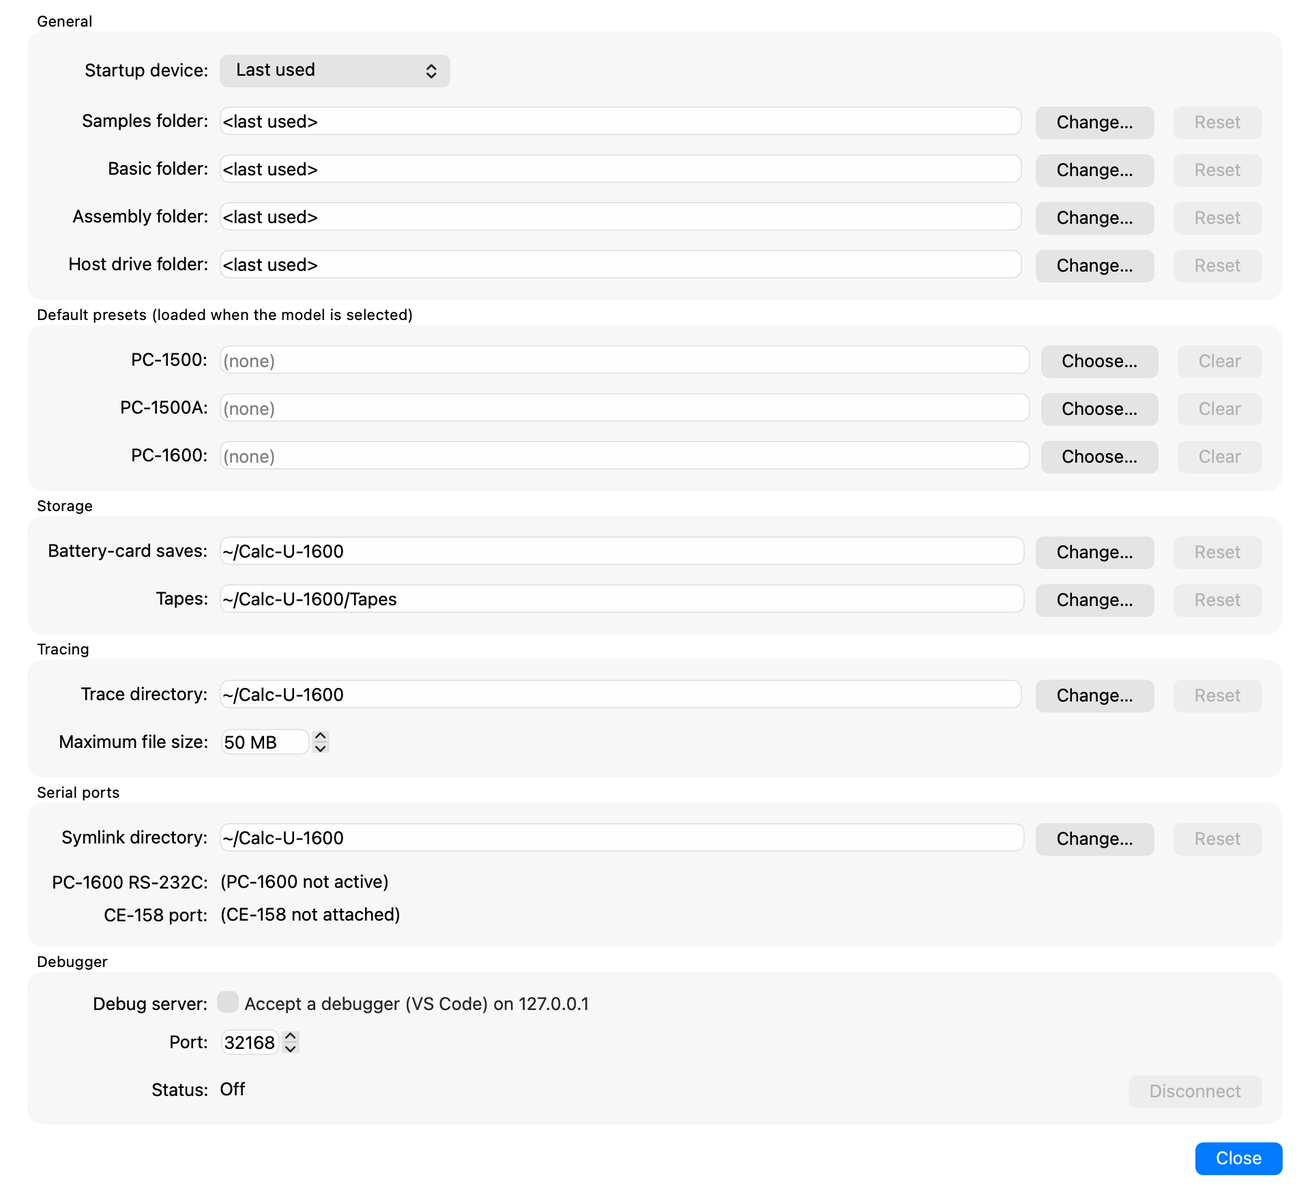
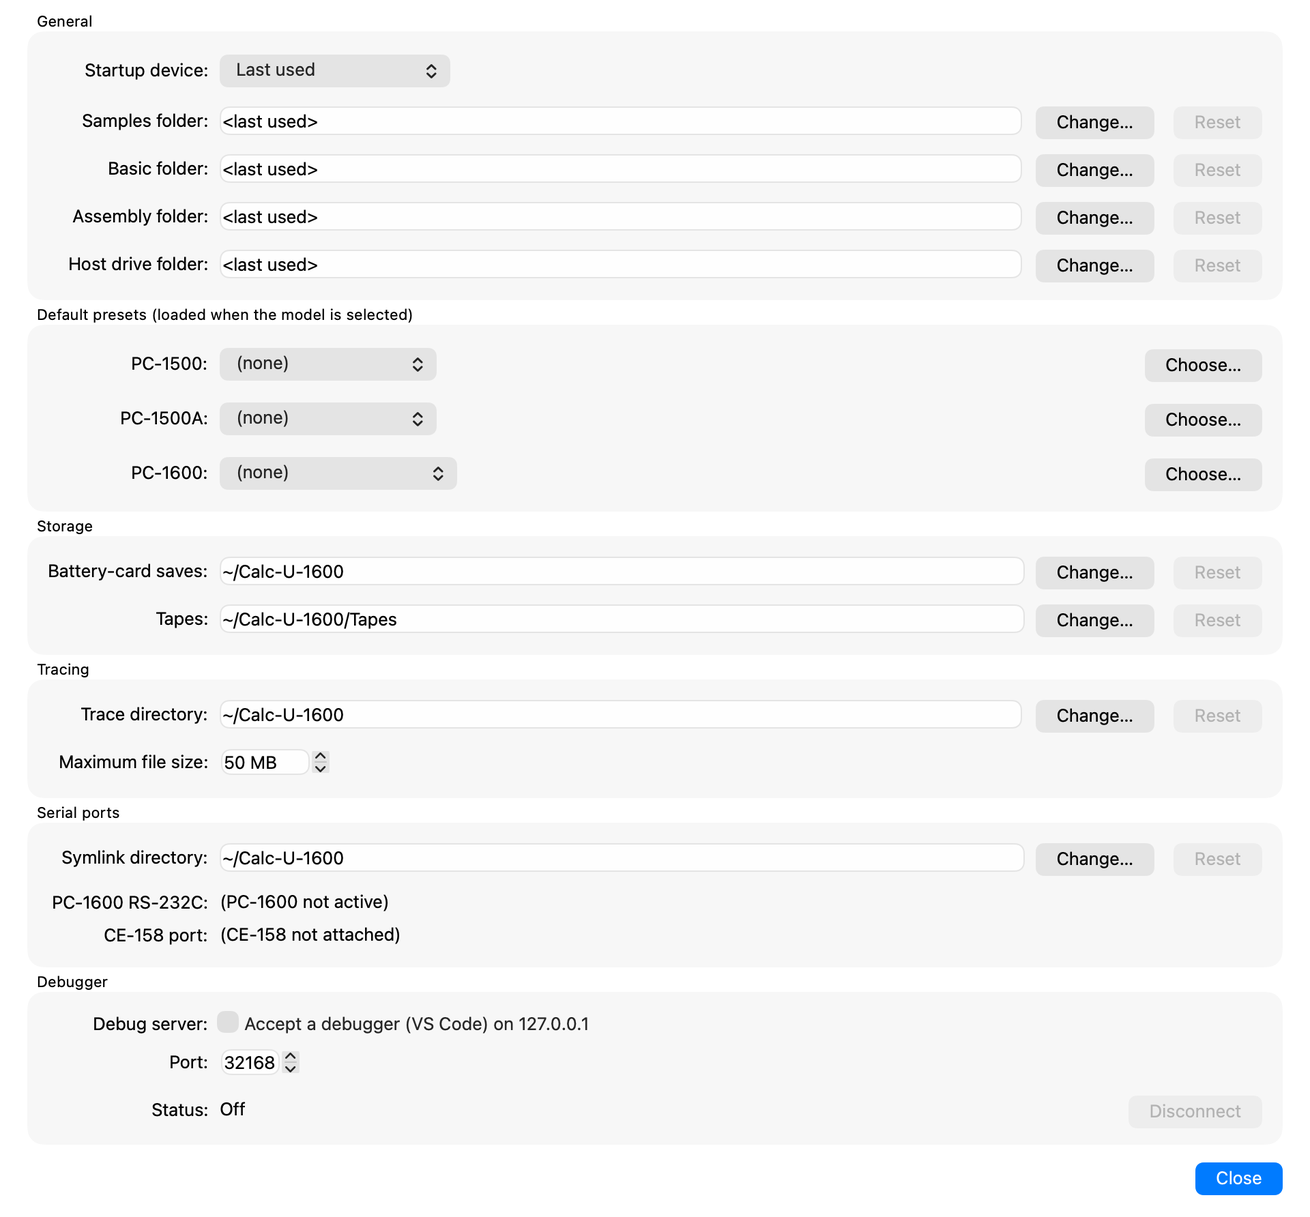
Docs: preset-name/description, card/disk description, bundled.yaml
- User Guide: preset-name/description (8.2, reference table), File >
  Examples, Settings > Default presets by name, Name & Save keeps the
  description; 09-settings screenshot regenerated.
- Card and floppy format docs: the description key.
- examples/README, Web-Client, Shared-Architecture: bundled.yaml and
  PresetCatalog instead of Web/presets.json.
- Decisions.md: names and descriptions; the plan as
  docs/background/plans/Media-Names-Plan.md; CHANGELOG.

diff --git a/docs/background/plans/Media-Names-Plan.md b/docs/background/plans/Media-Names-Plan.md
@@ -1,0 +1,172 @@
+# Names and descriptions for presets, cards and disks
+
+> **Status (2026-11-07): implemented** (4e2c58a … this commit). Differences from this plan:
+> - **Core:** `preset-name:` / `description:` values go through the parser's usual quote and comment handling (`splitKeyValue`), so no special quote rule was needed for Decisions.md. The headless `saveas: floppy:` (Core/Preset/PresetMedia.hpp) writes no description: it has only the image, not the disk's source file.
+> - **Shared:** `FloppyBay::DiskLists` stays a list of names; `FloppyBay::diskDescription(name)` gives the tooltip. Card instances keep the description for free (a save is spliced into the source file). `HostDirs` got a third field, `bundledExamples` (default `<bundle>/examples`; the web's is `/presets`).
+> - **Web:** the menu is still **File ▸ Load Preset ▸** (examples, then Upload Preset…), not "Examples"; the engine gives `presetExamples()` and `settingsState().presetChoices`. `?preset=` still takes a path under `presets/`.
+> - **Settings (both):** the Qt row lost its Clear button; "(none)" / "None" is the first item of the list.
+
+## Context
+
+Web ▸ Settings ▸ Default presets shows labels like "Towers of Hanoi (PC-1600)". They
+come from `Web/presets.json`, a hand-kept list used only by the web build
+(`Web/build.js` copies it to `presets/manifest.json`; `CalcU1600.jsx:217` builds
+File ▸ Examples from it, `Dialogs.jsx:178` the Settings selects). The preset files
+have no name at all. Qt6 has none of this: its default preset is a raw path field
+(`SettingsDialog.cpp:166`) and Load Preset is a file dialog. The closed web select
+crops the long label ("Towers of Hanoi (PC-16…").
+
+Goal: the label belongs in the file itself, as a **short name** (shown once
+something is selected; unique and uncropped) plus a **long description** (shown in
+lists, menus and tooltips). This works the same in both frontends, and cards and
+disks get the same description field.
+
+Decisions (from the user):
+- Preset keys `preset-name:` (short) + `description:` (long), matching
+  `module-name:` / `disk-name:`.
+- Both are optional; when missing, the file name stands in. A test makes them
+  required for every preset in `examples/`.
+- Cards and disks get an optional one-line `description:`, shown as a tooltip.
+  Name & Save copies it from the template to the new instance.
+- Qt bundles the same curated example list as the web: File ▸ Examples, and a pick
+  list in Settings ▸ Default presets.
+
+## Design
+
+### 1. Core — the format
+- `Core/Preset/PresetFile.{hpp,cpp}`: add `preset-name` and `description` to
+  `kKeys`, as inline values only. The value is the rest of the line, with one
+  optional pair of surrounding `"` stripped. That matches the card/disk files and
+  differs on purpose from `type:` (record this in Decisions.md). New fields:
+  `PresetFile::presetName`, `PresetFile::description`.
+- Add a cheap header read, `bool readPresetHeader(path, PresetHeader*, error)`,
+  returning `{model, presetName, description}`. It scans only the top-level
+  `format-version` / `model` / `preset-name` / `description` lines and does not
+  resolve files or steps, so listing presets doesn't parse everything. It reuses
+  the same `readLines` and `splitKeyValue`. The fallback name is the file stem
+  (`hanoi`); the fallback description is empty. This fallback lives in one helper
+  so both frontends get it.
+- Cards: `Core/Connector/MemoryCardDefinition.hpp:1359`: add `description` to the
+  allowed keys → `MemoryCardDefinition::description`; carry it into
+  `MemoryCardCatalogEntry` (`MemoryCardCatalog.hpp:26`). The existing `notes:`
+  (free-form, multi-line) stays as it is.
+- Disks: `Core/Connector/FloppyImageFile.hpp:76`: add `description` to
+  `requireOnlyKeys` → `FloppyFile::description`; the writer (line ~109) emits it
+  when it isn't empty.
+- Format versions stay at 1: the new keys are optional, and pre-1.0 is fine with
+  that.
+
+### 2. Shared — one catalogue for both frontends
+- **The curated lists move to `examples/bundled.yaml`** (replaces
+  `Web/presets.json`). It holds two separate lists:
+  ```yaml
+  defaults:            # Settings ▸ Default presets pick list (per model)
+    - file: startup/default-pc1500.pc1500
+    - file: startup/default-pc1500a.pc1500a
+    - file: startup/default-pc1600.pc1600
+  examples:            # File ▸ Examples (presets to load at runtime)
+    - group: BASIC
+      file: basic/hanoi.pc1600
+    - group: Plotter
+      file: plotter/ce150_demo.pc1500a
+    …
+  ```
+  A preset in `defaults` is not offered under File ▸ Examples (the web menu's
+  "Startup" group goes away). The Settings list offers only `defaults` entries.
+  Model, name and description come from each file itself, so they can't drift out
+  of sync. Shared reads the file with `Core/Yaml.hpp`; `build.js` and CMake only
+  need the `file:` lines from both lists.
+- New `Shared/PresetCatalog.{hpp,cpp}`: `defaults(model)` and `examples()` →
+  `{group, ref, model, name, description}`, read from
+  `<bundledResourcesDir>/examples/bundled.yaml` plus each file's
+  `readPresetHeader`; and `PresetHeader describe(path)` for any file (the user's own
+  default preset, uploads). It refuses a file that is in both lists or whose
+  `model:` doesn't parse; the test checks this too.
+- **Stable reference for bundled presets in Settings:** `examples:basic/hanoi.pc1600`.
+  Shared resolves it against the bundled examples folder (`AppPaths`), so it
+  survives app moves and updates in Qt. The web uses the same form instead of
+  `/presets/...`; old web values simply no longer resolve (pre-1.0).
+  `AppSession::loadDefaultPresetJob` / `loadPresetJob` accept the form.
+- `ModuleBay::ModuleEntry` (`Shared/ModuleBay.hpp:46`) and the `FloppyBay` lists
+  gain `description` (FloppyBay's `templates`/`instances` become entries rather than
+  bare strings). `MediaLibrary::MediaItem` gains it too (Saved Media dialog).
+- Name & Save (the `MediaSave.hpp` pipeline / `CardYamlDump`): copy the source's
+  `description` into the saved card or disk.
+- Validation helper `presetNameProblems(entries)`: names unique per model,
+  ≤ 18 characters, no model suffix needed (the Settings lists are already per
+  model). Used by the test.
+
+### 3. Qt6
+- CMake (`Qt6/CMakeLists.txt` ~175, next to the cards/ROMs copy): copy
+  `examples/bundled.yaml` and the folders of the listed files into
+  `Resources/examples` (loose, like the cards). The folder list comes from
+  `file(STRINGS … REGEX "file:")`.
+- `MainWindow.cpp:839` File menu: **Examples ▸** submenu from
+  `PresetCatalog::examples()` (no default presets), grouped like the web's. Item
+  text = description, falling back to the name. It runs the existing load-preset
+  path.
+- `SettingsDialog.cpp` default-preset rows: a combo instead of the path field.
+  Entries: "None", `PresetCatalog::defaults(model)`, and the current custom file
+  if one is set. Each list item shows the **description**, the closed combo shows
+  the **short name** (a small `NamedComboBox`: paint the current item's
+  `Qt::UserRole+1` short name; tooltip = description + path). "Choose…" still picks
+  any file, and that file's name/description come from `PresetCatalog::describe`.
+- Control-bar module and floppy pickers (`ControlBar.cpp:31 fillPicker`, 148):
+  `setItemData(i, description, Qt::ToolTipRole)`, and the combo's own tooltip
+  follows the current item.
+
+### 4. Web
+- `Web/build.js`: read `examples/bundled.yaml` (simple `file:` line scan), copy the
+  folders as now, and drop `manifest.json`. `Web/presets.json` is removed.
+- `bindings.cpp`: `presetCatalog()` → the Shared list. The engine already has the
+  files at `/presets`, and that becomes the bundled examples folder for
+  `AppPaths`. Module/floppy lists pass `description` through.
+- `CalcU1600.jsx:217` Examples menu: `examples()` from the engine (no Startup
+  group), labelled with the description. The Settings combos use `defaults(model)`.
+- `Dialogs.jsx:178` Settings: replace the native `<select>` with a small
+  `NamedCombo` built on `MenuList` (`MenuBar.jsx:11`). The button shows the short
+  name, the open list shows descriptions. A native select can't show different
+  text open and closed.
+- `ControlBar.jsx:35` module/disk selects: `title` = description on each option and
+  on the select itself.
+
+### 5. Content and docs
+- Add `preset-name:` and `description:` to every preset in both lists of `bundled.yaml`,
+  plus the other `examples/` presets. Short names like "Hanoi", "Lissajous CE-150",
+  "Lissajous CE-1600P"; descriptions take over today's titles.
+- Add `description:` to the bundled cards (`Qt6/resources/cards/*.card.yaml`) and
+  disks ("Formatted", "Blank"), from their header comments.
+- Docs: the User-Guide preset key table and the card/disk format sections;
+  `docs/developer/Web-Client.md` (presets.json → bundled.yaml);
+  `docs/background/Decisions.md` (the quote rule for these two keys; `examples:`
+  refs); `examples/README.md` mentions bundled.yaml. Commit the finished plan as
+  `docs/background/plans/Media-Names-Plan.md` (+ a row in the plans README).
+
+## Phases (each one committed to dev-0.8.0)
+1. Core keys + `readPresetHeader` + card/disk `description`, with tests.
+2. Shared `PresetCatalog`, `examples:` refs, descriptions in bays/MediaLibrary,
+   Name & Save copy; `bundled.yaml` + example content + the examples test.
+3. Qt6: bundling, Examples menu, Settings `NamedComboBox`, picker tooltips.
+4. Web: build.js, bindings, Examples menu, `NamedCombo`, option titles; Playwright
+   update (`Web/tests/offline.spec.js:61` clicks the Hanoi example by text).
+5. Docs + Decisions + plan doc.
+
+## Verification
+- `tools/run_tests.sh`. New tests:
+  - Core: preset-name/description parsing, the quoted form, the fallback, an
+    unknown-key error unchanged.
+  - Core: a card/disk round trip with `description`.
+  - Shared: `PresetCatalog` over `examples/bundled.yaml`. Every listed file
+    exists, parses, has both keys, and passes `presetNameProblems` (per list).
+    No file is in both lists.
+  - Shared: an `examples:` ref resolves and loads as the default preset.
+  - Shared: Name & Save keeps the description.
+- `tools/build_wasm_check.sh`; Qt app builds.
+- Qt, by hand (`-ApplePersistenceIgnoreState YES`, quit via calcu1600/quit):
+  - File ▸ Examples ▸ Hanoi loads; the startup presets are not in the menu.
+  - Settings: the PC-1600 list shows descriptions, the closed combo shows "Hanoi";
+    restart → it loads as the default.
+  - The module picker tooltip shows the CE-161 description.
+- Web: `Web/run-tests.sh` (Playwright).
+- Web, by hand in Chrome: the Settings combo shows the short name uncropped and the
+  descriptions when open; the Examples menu still works; reload keeps the default.

diff --git a/docs/User-Guide.md b/docs/User-Guide.md
@@ -445,7 +445,9 @@ copy:
 
 From then on that copy **saves itself**: about half a second after a
 change, the file is updated. It appears in the picker below the separator,
-so you can plug it in again later, and presets can use it by name.
+so you can plug it in again later, and presets can use it by name. It
+keeps the template's one-line description, which the picker shows as a
+tooltip.
 
 ```mermaid
 stateDiagram-v2
@@ -621,7 +623,8 @@ A preset is a small script that builds a machine from a cold boot: which
 model, modules and peripherals, then what to type and which programs to
 load. The file extension matches the model: `.pc1500`, `.pc1500a` or
 `.pc1600`. Open one with **File ▸ Load Preset…**. The
-[examples/](../examples/) folder is full of them.
+[examples/](../examples/) folder is full of them; the ones the app comes
+with are under **File ▸ Examples**, by their description.
 
 A preset always runs in the same order:
 
@@ -652,6 +655,18 @@ which version of the preset format the file is written in; a newer app
 refuses a version it doesn't know rather than guess. `key:` presses one
 key by name. `type:` types a line,
 followed by ENTER.
+
+A preset can name itself, for the lists it shows up in:
+
+```yaml
+preset-name: Hanoi                                 # short, shown once it is chosen
+description: Towers of Hanoi, up to seven bricks   # shown in lists and menus
+```
+
+Both are optional. Without `preset-name:`, the file name stands in
+(`hanoi` for `hanoi.pc1600`). Keep the name short (18 characters at
+most) and different from the other presets of the same model, so a chosen
+preset reads in full and can't be mistaken for another one.
 
 ### 8.3 Adding hardware
 
@@ -768,7 +783,9 @@ itself, and the preset that uses them:
 
 **Settings ▸ Default presets** sets one preset per model. This is how a model
 gets its usual setup, because a model switch starts with no modules and no
-peripherals:
+peripherals. Each model's list offers the startup presets the app comes
+with, by description; once one is chosen, the list shows its short name.
+**Choose…** takes any preset file of your own:
 
 ```mermaid
 flowchart LR
@@ -800,6 +817,8 @@ This is what it leaves on the LCD:
 |---|---|
 | `format-version:` | `1` (required) |
 | `model:` | `PC-1500[:A01\|A03\|A04]`, `PC-1500A`, `PC-1600[:new\|old]` (required) |
+| `preset-name:` | the short name a list shows once the preset is chosen; default: the file name |
+| `description:` | one line for lists, menus and tooltips |
 | `plotter:` | `CE-150`, `CE-1600P[:new\|old]` (PC-1600) |
 | `interface:` | `CE-158` |
 | `floppy:` | disk name, optionally `,A` / `,B` (PC-1600 with the CE-1600P) |

diff --git a/docs/background/Decisions.md b/docs/background/Decisions.md
@@ -413,6 +413,29 @@ authentic speed for the span that matters.
   with a missing file fails before the machine starts, like every other
   parse error.
 
+### Names and descriptions (docs/background/plans/Media-Names-Plan.md)
+- **The name lives in the file.** A preset's `preset-name:` / `description:`,
+  a card's or disk's `description:`: no list kept beside the files says
+  what they are. `examples/bundled.yaml` only says *which* presets the app
+  ships and in which group, so it can't drift from them.
+- **Optional in a file, required in the bundle.** A user's preset without
+  them still loads (the file name stands in); every preset `bundled.yaml`
+  lists must have both, short names at most 18 characters and unique per
+  model within a list (`presetNameProblems()`, checked by the tests).
+- **Two lists, not one.** `defaults` are offered only in Settings ▸ Default
+  presets, `examples` only in File ▸ Examples: a startup setup isn't
+  something to load from a menu, and a demo isn't a startup setup.
+- **Settings stores a bundled preset as `examples:<file>`**, resolved
+  against the bundled examples folder, not as a path: the app bundle moves
+  with every update (and the web client has no stable path at all).
+- **Long in the list, short once chosen.** The pickers show descriptions
+  while open and the short name when closed (Qt `NamedComboBox`, web
+  `NamedCombo`), so a choice is never cut off. A native `<select>` can't
+  do that, hence the web's own combo.
+- **Cards and disks keep their name as the label.** `module-name:` /
+  `disk-name:` are short and unique already; the `description:` is only a
+  tooltip. Name & Save and the autosave keep it.
+
 ### Loading programs (docs/background/plans/Loader-Mode-Plan.md)
 - **The loaders follow MODE and `TITLE` and never change them.** Load
   BASIC, Load Machine Code, presets and the debugger read BMODE b6 and F1D5H

diff --git a/docs/developer/Floppy-Image-Format.md b/docs/developer/Floppy-Image-Format.md
@@ -44,6 +44,7 @@ Keys may appear in any order. Unknown keys are an error at every level.
 | `format` | yes | `ce1600f-floppy` |
 | `format-version` | yes | integer; this document is version **1** |
 | `disk-name` | yes | non-empty string. Writers double-quote it; it therefore must not contain `"` or a newline |
+| `description` | no | one line about the disk, the picker's tooltip for it. Written double-quoted, or single-quoted when it holds a `"`. Name & Save and the autosave keep it |
 | `template` | no | `true` = read-only template (see §2); absent or `false` = instance. Written only by a preset's `saveas: template …`; Name & Save never writes it |
 | `saved` | no | ISO-8601 UTC timestamp `YYYY-MM-DDTHH:MM:SSZ` of the last write (informational) |
 | `sides` | yes | mapping with exactly the keys `a` and `b` |
@@ -79,7 +80,8 @@ A reader accepts any valid `addressed-hex`, but writers **should** emit the cano
 so that files diff cleanly whichever tool saved them:
 
 - the first line is `# Calc-U-1600 CE-1600F floppy disk image`, then `format`,
-  `format-version`, `disk-name`, `template` (only when true), `saved`, `sides`
+  `format-version`, `disk-name`, `description` (only when set), `template` (only when
+  true), `saved`, `sides`
   in that order;
 - 2-space indent per level (`  a:`, `    encoding:`, `      $0000: …`), `\n` line endings;
 - rows of 16 bytes, uppercase hex, `$` plus a 4-digit uppercase address, one space between
@@ -96,6 +98,7 @@ so that files diff cleanly whichever tool saved them:
 format: ce1600f-floppy
 format-version: 1
 disk-name: "Formatted"
+description: "Formatted, both sides empty"
 template: true
 saved: 2026-09-19T10:17:46Z
 sides:

diff --git a/docs/developer/Web-Client.md b/docs/developer/Web-Client.md
@@ -35,7 +35,6 @@ flowchart LR
 | `src/*.jsx`, `src/*.js` | The client, compiled into one `dist/calc.js` (one global, `CalcU1600`) |
 | `calc.css` | Styles, all under `.calcu-client`, light and dark |
 | `app/` | The installable app: page, manifest, service worker, worker shim |
-| `presets.json` | The bundled example presets (each with its `examples/` folder) |
 | `build.sh`, `build.js` | The build (below) |
 | `tests/`, `run-tests.sh` | Playwright tests |
 | `vendor/` | React 18, ReactDOM, ReactDOMServer (tests), Babel (build only) |
@@ -52,7 +51,9 @@ Web/run-tests.sh    # Playwright: root, sub-path, offline (Chromium, WebKit), pr
 engine is the CMake target `calcu_web` in `build-wasm/`
 (`calcu1600-core.js` / `.wasm`): no `-pthread`, native wasm exceptions,
 `IDBFS`. `build.js` compiles the JSX with the vendored Babel (no npm
-runtime dependencies), copies the presets, writes `files.json`, stamps
+runtime dependencies), copies the presets that
+[`examples/bundled.yaml`](../../examples/bundled.yaml) lists (each with its
+`examples/` folder, and the list itself) into `presets/`, writes `files.json`, stamps
 the service worker's precache list and writes `MANIFEST.json`. CI's `web`
 job builds, tests and uploads `Calc-U-1600-web-<version>.zip`; a release
 attaches it as `Calc-U-1600-web.zip`.

diff --git a/docs/developer/Shared-Architecture.md b/docs/developer/Shared-Architecture.md
@@ -55,6 +55,7 @@ WebAssembly check.
 | `AppSession` | The whole emulator behind one frontend: owns `MachineSession`, the bays, the `Pacer` and the `AudioPump`, wires them, runs operations, `tick()` |
 | `MachineSession` | The live PC-1500/1500A/1600: model and ROM switches, host keys (`hostKeyDown`) and paste queue, display, audio, memory-module slots, peripherals, tape, host drive, trace, inspector, serial links |
 | `ModuleBay`, `FloppyBay`, `TapeBay` | The control bar's slots, disk and tape: catalogues, attach, Name & Save, preset `saveas:`, debounced autosave |
+| `PresetCatalog` | The bundled presets of `examples/bundled.yaml` (`defaults`, `examples`) and any preset's short name and description; `examples:` refs resolve through `AppPaths` |
 | `Pacer`, `AudioPump` | Frame ticks → emulated time (absolute deadline, turbo); buzzer PCM → an `AudioSink` |
 | `Settings`, `AppPaths`, `Utf8Path` | Every settings key with its default; the save/tapes/bundle folders and by-name save paths |
 | `HostKeyMap`, `KeyLayout/`, `LcdLayout`, `PlotterPaper`, `Rgb` | Host keys → calculator keys; key hit-regions and the faceplate fit; LCD geometry, colours and status indicators (`lcd::indicators()`); plotter-paper geometry |

diff --git a/docs/Memory-Card-Definition-Format.md b/docs/Memory-Card-Definition-Format.md
@@ -31,6 +31,7 @@ the same directory.
 |---|---|---|
 | `format-version` | yes | Integer; this document is version **1**. |
 | `module-name` | yes | Short identifier for the module (e.g. `CE-155`, `CE-1600M`). Shown verbatim in the GUI's control-bar module picker, and the key a preset's `slot-N: <module-name>` resolves against (§8). Unique across the module directory. |
+| `description` | no | One line about the module (e.g. `"8 KB static RAM"`), the picker's tooltip for it. A saved instance keeps its template's. |
 | `compatible-hosts` | yes | List, non-empty, drawn from `PC-1500`, `PC-1500A`, `PC-1600-Slot-1`, `PC-1600-Slot-2`. The loader's **only** compatibility check (spec §1): a host not on this list is declined; a host on it gets no further test. |
 | `definition-terminology` | yes | Exactly one of the same four identifiers. Names the pin-name vocabulary every `chip-select` / `signal` / `line` field in the file is resolved against, once, at parse time (spec §1). Must appear in `compatible-hosts`. |
 | `regions` | yes | List of one or more region maps (§2). |

diff --git a/examples/README.md b/examples/README.md
@@ -7,6 +7,12 @@ program; open one with **File ▸ Load Preset…**. A `.bas` file can also be
 loaded on its own with **File ▸ Load BASIC Program…**. See
 `docs/User-Guide.md` for the full preset format.
 
+Each preset names itself with `preset-name:` (short) and `description:`
+(one line). [bundled.yaml](bundled.yaml) lists the presets the app and the
+web client come with: `defaults` for **Settings ▸ Default presets**,
+`examples` for **File ▸ Examples**. A preset in either list must have both
+keys (the test suite checks it).
+
 ## plotter/ — CE-150 and CE-1600P
 
 | File | Machine | What it does |
@@ -65,8 +71,8 @@ loaded on its own with **File ▸ Load BASIC Program…**. See
 
 ## startup/ — default presets
 
-One default preset per model. Set them under **Settings** to have them
-applied whenever that model is selected.
+One default preset per model, offered under **Settings ▸ Default presets**
+(bundled.yaml's `defaults`), applied whenever that model is selected.
 
 ## setup/ — preparation scripts
 

diff --git a/CHANGELOG.md b/CHANGELOG.md
@@ -4,6 +4,15 @@
 
 ### New
 
+- **Presets, cards and disks name themselves.** A preset can carry
+  `preset-name:` (short, shown once chosen) and `description:` (the line
+  lists and menus show); cards and disks a `description:`, shown as the
+  picker's tooltip and kept by Name & Save. **File ▸ Examples** loads the
+  bundled example presets, and **Settings ▸ Default presets** offers the
+  bundled startup presets by description and shows the chosen one by its
+  short name -- in the desktop app and in the browser. Which presets are
+  bundled is `examples/bundled.yaml`.
+
 - **Fast-load cassette WAVs.** File ▸ Load BASIC Program…, Load Machine
   Code… and a drop open a WAV of a PC-1500 (CE-150) or PC-1600 (CE-1600P)
   tape and write the file on it straight into memory, as for a `.bbin` or

diff --git a/docs/background/README.md b/docs/background/README.md
@@ -44,6 +44,7 @@ with a status note on how the implementation differed. New plans go into
 | [Shared layer for a WebAssembly GUI](plans/Shared-Layer-Plan.md) | 2026-11-06 | Implemented (phases 0–5); web GUI, DAP move open |
 | [Shared layer follow-up: frontend-neutral seams](plans/Shared-Layer-Followup-Plan.md) | 2026-11-06 | Implemented |
 | [Web GUI: WebAssembly frontend, embed + PWA](plans/Web-GUI-Plan.md) | 2026-11-06 | Implemented; calc-u.org page, user docs and iPad check in TODO.md |
+| [Names and descriptions: presets, cards, disks](plans/Media-Names-Plan.md) | 2026-11-07 | Implemented |
 
 ## Handoffs
 
